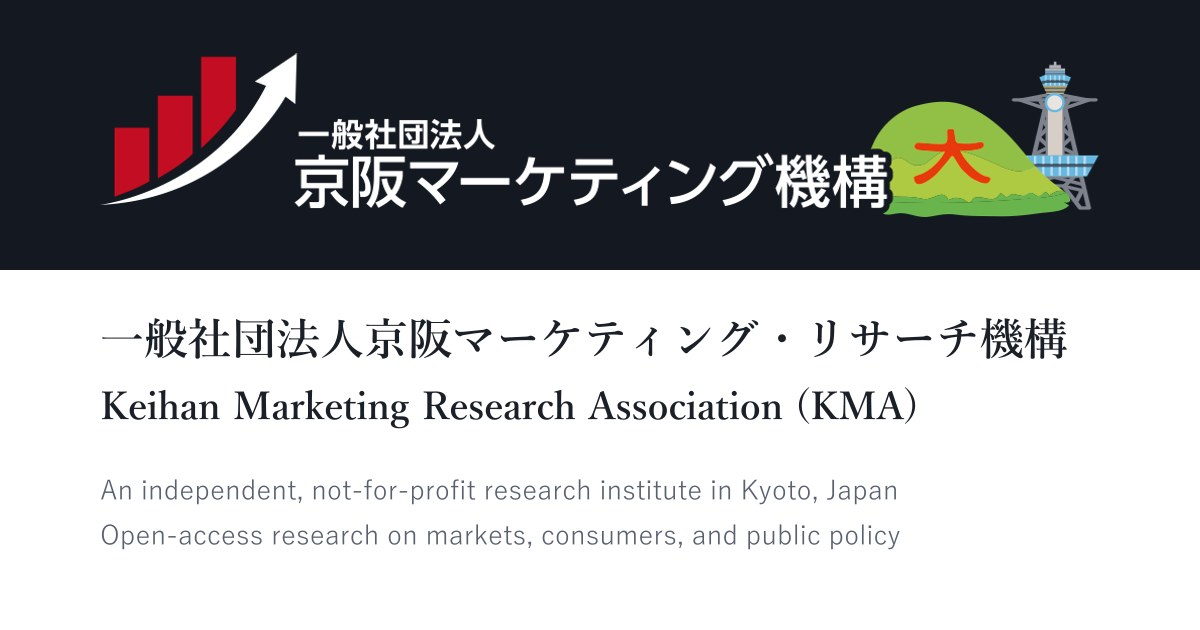
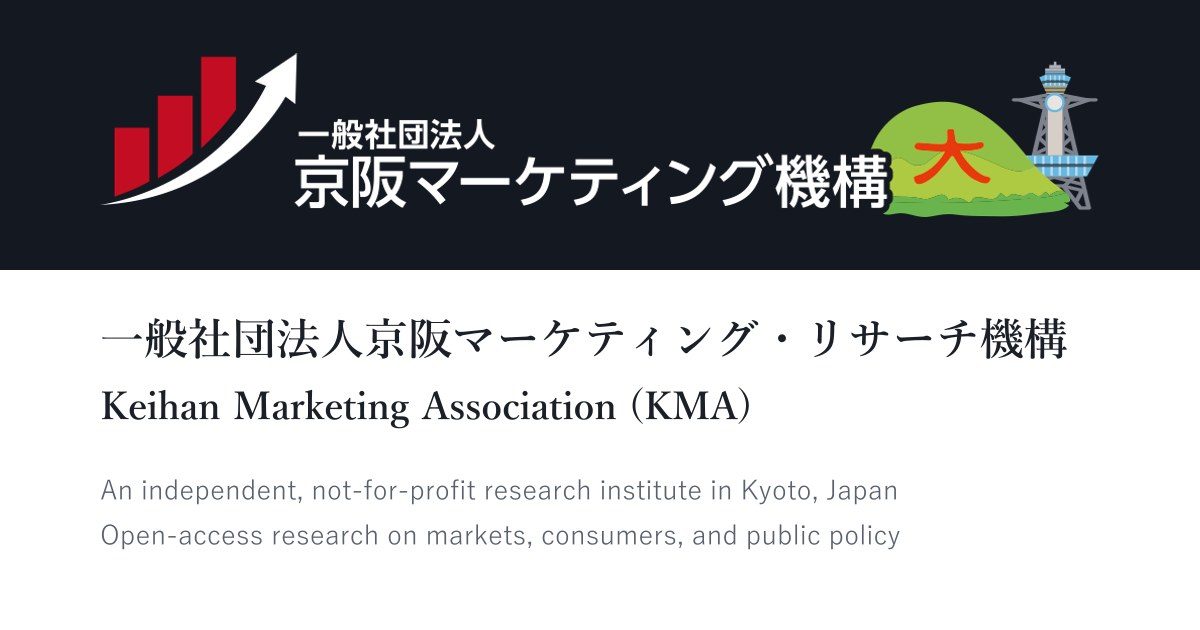
Use the English name from the articles: Keihan Marketing Association
定款第1条 gives the English name as "Keihan Marketing Association"
(KMA); the site used "Keihan Marketing Research Association". Align
titles, descriptions, the mission statement, JSON-LD, manifest and the
OGP image with the articles, which the nonprofit verification relies on.

Changed region(s): [[0.3392, 0.6032, 0.7708, 0.6635]]

diff --git a/src/i18n.ts b/src/i18n.ts
@@ -33,14 +33,15 @@ export const ui = {
       '京阪マーケティング・リサーチ機構は、2022年に京都で設立された独立の非営利研究機関です。市場・消費者・公共政策に関する研究に取り組む研究者を支援し、その成果である査読付き論文を、誰もが無料で読める形で公開しています。',
   },
   en: {
-    orgName: 'Keihan Marketing Research Association',
-    orgShortName: 'Keihan Marketing Research Association',
+    // English name as written in the articles of association (定款第1条). OGP image: npm run images.
+    orgName: 'Keihan Marketing Association',
+    orgShortName: 'Keihan Marketing Association',
     nav: { home: 'Home', research: 'Research', about: 'About' },
     langSwitch: '日本語',
     koukoku: 'Public notices (Japanese)',
     contact: 'Contact',
     skipToContent: 'Skip to content',
     mission:
-      'Keihan Marketing Research Association (KMA) is an independent, not-for-profit research institute established in Kyoto, Japan, in 2022. KMA supports independent researchers and publishes peer-reviewed research on markets, consumers, and public policy, making all results freely available to the public.',
+      'Keihan Marketing Association (KMA) is an independent, not-for-profit research institute established in Kyoto, Japan, in 2022. KMA supports independent researchers and publishes peer-reviewed research on markets, consumers, and public policy, making all results freely available to the public.',
   },
 } as const;
